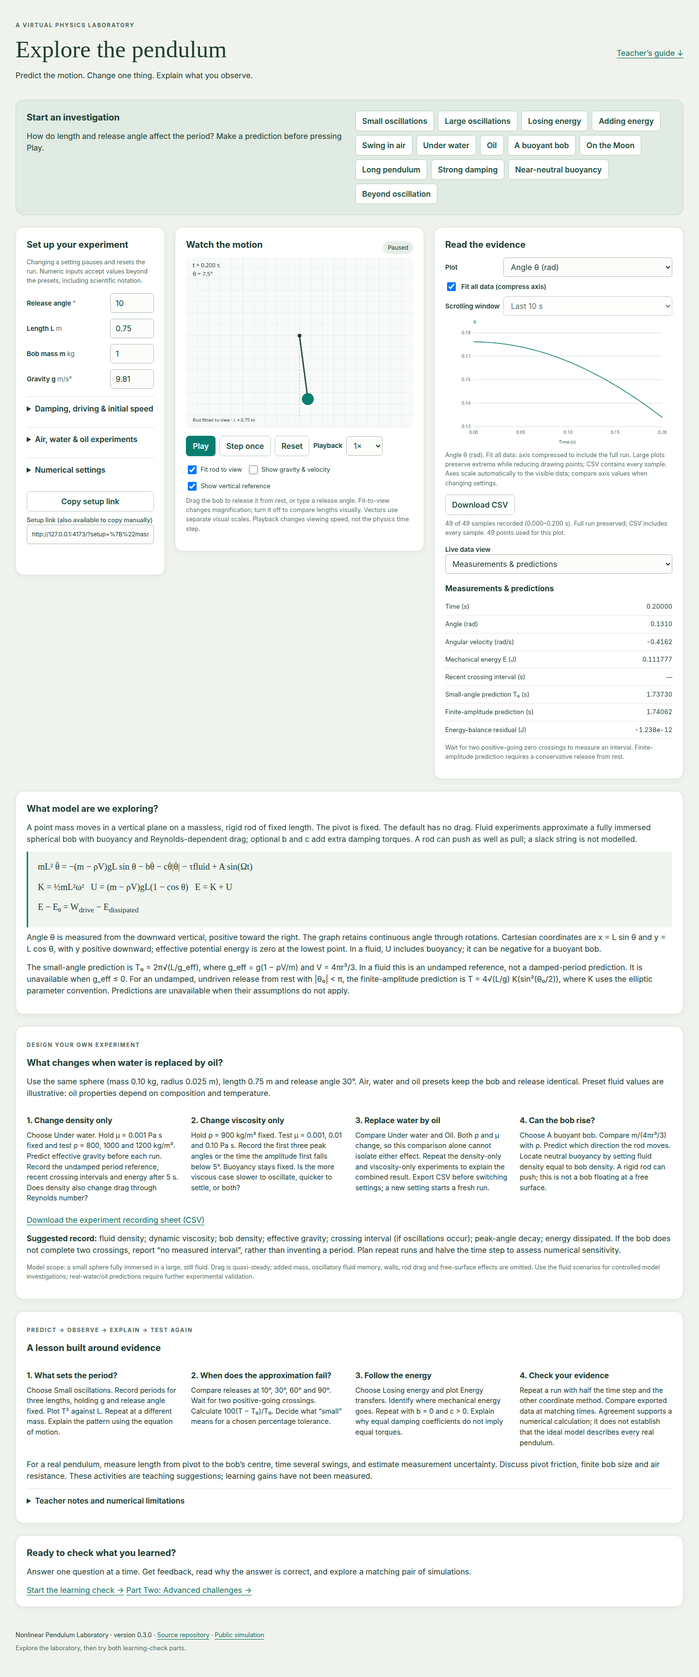
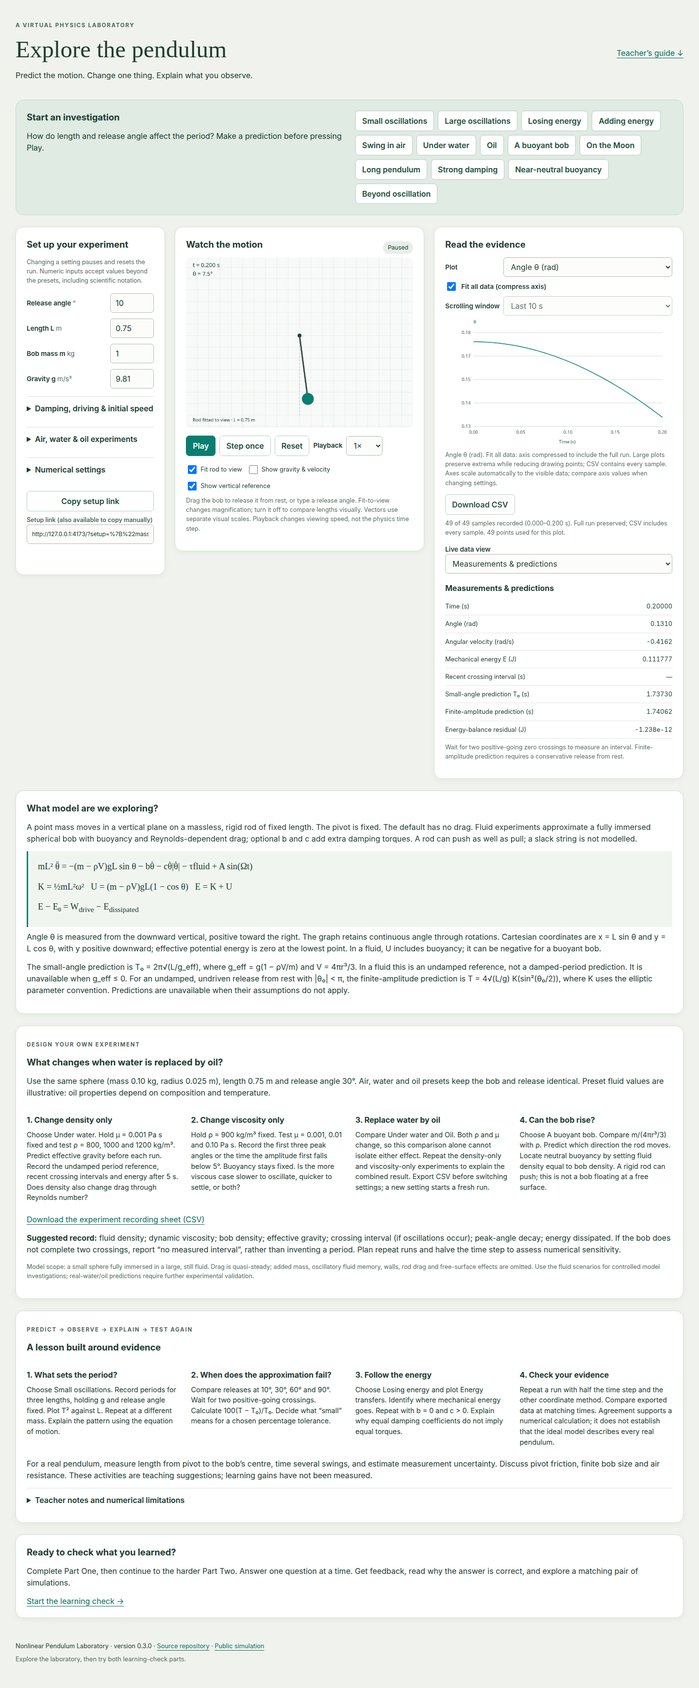
Present foundation and advanced questions as one sequential quiz

diff --git a/src/main.ts b/src/main.ts
@@ -310,7 +310,7 @@ app.innerHTML = `
 <section class="card model" id="model"><h2>What model are we exploring?</h2><p>A point mass moves in a vertical plane on a massless, rigid rod of fixed length. The pivot is fixed. The default has no drag. Fluid experiments approximate a fully immersed spherical bob with buoyancy and Reynolds-dependent drag; optional b and c add extra damping torques. A rod can push as well as pull; a slack string is not modelled.</p><div class="equations"><p>mL² θ̈ = −(m − ρV)gL sin θ − bθ̇ − cθ̇|θ̇| − τfluid + A sin(Ωt)</p><p>K = ½mL²ω² &nbsp; U = (m − ρV)gL(1 − cos θ) &nbsp; E = K + U</p><p>E − E₀ = W<sub>drive</sub> − E<sub>dissipated</sub></p></div><p>Angle θ is measured from the downward vertical, positive toward the right. The graph retains continuous angle through rotations. Cartesian coordinates are x = L sin θ and y = L cos θ, with y positive downward; effective potential energy is zero at the lowest point. In a fluid, U includes buoyancy; it can be negative for a buoyant bob.</p><p>The small-angle prediction is T₀ = 2π√(L/g_eff), where g_eff = g(1 − ρV/m) and V = 4πr³/3. In a fluid this is an undamped reference, not a damped-period prediction. It is unavailable when g_eff ≤ 0. For an undamped, undriven release from rest with |θ₀| &lt; π, the finite-amplitude prediction is T = 4√(L/g) K(sin²(θ₀/2)), where K uses the elliptic parameter convention. Predictions are unavailable when their assumptions do not apply.</p></section>
 <section class="card" id="fluid-experiments"><p class="eyebrow">Design your own experiment</p><h2>What changes when water is replaced by oil?</h2><p>Use the same sphere (mass 0.10 kg, radius 0.025 m), length 0.75 m and release angle 30°. Air, water and oil presets keep the bob and release identical. Preset fluid values are illustrative: oil properties depend on composition and temperature.</p><div class="lessons"><article><h3>1. Change density only</h3><p>Choose Under water. Hold μ = 0.001 Pa s fixed and test ρ = 800, 1000 and 1200 kg/m³. Predict effective gravity before each run. Record the undamped period reference, recent crossing intervals and energy after 5 s. Does density also change drag through Reynolds number?</p></article><article><h3>2. Change viscosity only</h3><p>Hold ρ = 900 kg/m³ fixed. Test μ = 0.001, 0.01 and 0.10 Pa s. Record the first three peak angles or the time the amplitude first falls below 5°. Buoyancy stays fixed. Is the more viscous case slower to oscillate, quicker to settle, or both?</p></article><article><h3>3. Replace water by oil</h3><p>Compare Under water and Oil. Both ρ and μ change, so this comparison alone cannot isolate either effect. Repeat the density-only and viscosity-only experiments to explain the combined result. Export CSV before switching settings; a new setting starts a fresh run.</p></article><article><h3>4. Can the bob rise?</h3><p>Choose A buoyant bob. Compare m/(4πr³/3) with ρ. Predict which direction the rod moves. Locate neutral buoyancy by setting fluid density equal to bob density. A rigid rod can push; this is not a bob floating at a free surface.</p></article></div><p><a href="./fluid-experiment-sheet.csv" download>Download the experiment recording sheet (CSV)</a></p><p><strong>Suggested record:</strong> fluid density; dynamic viscosity; bob density; effective gravity; crossing interval (if oscillations occur); peak-angle decay; energy dissipated. If the bob does not complete two crossings, report “no measured interval”, rather than inventing a period. Plan repeat runs and halve the time step to assess numerical sensitivity.</p><p class="hint">Model scope: a small sphere fully immersed in a large, still fluid. Drag is quasi-steady; added mass, oscillatory fluid memory, walls, rod drag and free-surface effects are omitted. Use the fluid scenarios for controlled model investigations; real-water/oil predictions require further experimental validation.</p></section>
 <section class="card" id="teacher-guide"><p class="eyebrow">Predict → observe → explain → test again</p><h2>A lesson built around evidence</h2><div class="lessons"><article><h3>1. What sets the period?</h3><p>Choose Small oscillations. Record periods for three lengths, holding g and release angle fixed. Plot T² against L. Repeat at a different mass. Explain the pattern using the equation of motion.</p></article><article><h3>2. When does the approximation fail?</h3><p>Compare releases at 10°, 30°, 60° and 90°. Wait for two positive-going crossings. Calculate 100(T − T₀)/T₀. Decide what “small” means for a chosen percentage tolerance.</p></article><article><h3>3. Follow the energy</h3><p>Choose Losing energy and plot Energy transfers. Identify where mechanical energy goes. Repeat with b = 0 and c &gt; 0. Explain why equal damping coefficients do not imply equal torques.</p></article><article><h3>4. Check your evidence</h3><p>Repeat a run with half the time step and the other coordinate method. Compare exported data at matching times. Agreement supports a numerical calculation; it does not establish that the ideal model describes every real pendulum.</p></article></div><p>For a real pendulum, measure length from pivot to the bob’s centre, time several swings, and estimate measurement uncertainty. Discuss pivot friction, finite bob size and air resistance. These activities are teaching suggestions; learning gains have not been measured.</p><details><summary>Teacher notes and numerical limitations</summary><p>Measured period averages up to three intervals between linearly interpolated, positive-going zero crossings. For damped or driven motion it is a recent crossing interval, not a claim of a natural or steady-state period. After a top crossing, oscillation-period reporting is disabled until reset. Near equilibrium, use the theoretical small-angle limit rather than measuring negligible oscillations.</p><p>The solver is not symplectic and exact energy conservation is not guaranteed. The energy-balance residual tests E − E₀ − Wdrive + Edissipated. Numerical validation covers finite runs and specified parameter sets, not every possible trajectory. Sensitive driven motion can diverge over long times. The full run is retained until Reset or a setting change. Large graphs use extrema-preserving summaries; CSV exports include every original sample. Memory use grows with run length.</p><p>This revised implementation was developed with AI assistance and numerical checks. The original development history and this correction cycle should be described separately in any publication.</p></details></section>
-<section class="card" style="margin-top:24px"><h2>Ready to check what you learned?</h2><p>Answer one question at a time. Get feedback, read why the answer is correct, and explore a matching pair of simulations.</p><a href="./quiz.html" class="guide-link">Start the learning check →</a> <a href="./quiz.html?part=2" class="guide-link">Part Two: Advanced challenges →</a></section></main><footer>Nonlinear Pendulum Laboratory · version ${ENGINE_VERSION} · <a href="https://github.com/sastriosks/2D-Nonlinear-Simple-Pendulum-Simulation">Source repository</a> · <a href="https://sastriosks.github.io/2D-Nonlinear-Simple-Pendulum-Simulation/">Public simulation</a><p>Explore the laboratory, then try both learning-check parts.</p></footer>`;
+<section class="card" style="margin-top:24px"><h2>Ready to check what you learned?</h2><p>Complete Part One, then continue to the harder Part Two. Answer one question at a time. Get feedback, read why the answer is correct, and explore a matching pair of simulations.</p><a href="./quiz.html" class="guide-link">Start the learning check →</a></section></main><footer>Nonlinear Pendulum Laboratory · version ${ENGINE_VERSION} · <a href="https://github.com/ishwrknt/2D-Nonlinear-Simple-Pendulum-Simulation">Source repository</a> · <a href="https://ishwrknt.github.io/2D-Nonlinear-Simple-Pendulum-Simulation/">Public simulation</a><p>Explore the laboratory, then try both learning-check parts.</p></footer>`;
 const el = <T extends HTMLElement = HTMLElement>(id: string) =>
   document.getElementById(id) as T;
 const engine = new PendulumEngine(params);

diff --git a/src/quiz.ts b/src/quiz.ts
@@ -4,10 +4,8 @@ import { PendulumEngine } from "./physics";
 import { effectiveGravity } from "./fluid";
 import { questions as foundationQuestions, quizBase } from "./quiz-questions";
 import { advancedQuestions } from "./quiz-advanced";
-const advanced = new URLSearchParams(location.search).get("part") === "2";
-const questions = advanced ? advancedQuestions : foundationQuestions;
-const partTitle = advanced ? "Part Two: Advanced challenges" : "Part One: Foundations";
-document.title = `${partTitle} · Pendulum learning check`;
+const questions = [...foundationQuestions, ...advancedQuestions];
+document.title = "Pendulum learning check · Parts One and Two";
 const app = document.querySelector<HTMLDivElement>("#quiz-app")!;
 const answers: (number | null)[] = questions.map(() => null);
 let index = 0,
@@ -20,7 +18,8 @@ const colors = ["#087e70", "#ad4b25"];
 const get = <T extends HTMLElement = HTMLElement>(id: string) =>
   document.getElementById(id) as T;
 function shell(content: string) {
-  app.innerHTML = `<header><div><p class="eyebrow">Predict · check · explore</p><h1>${partTitle}</h1><p>${questions.length} questions, one at a time. Answer, read the explanation, then test it in motion.</p></div><nav><a href="./">Back to laboratory</a> · <a href="./quiz.html${advanced ? "" : "?part=2"}">${advanced ? "Part One: Foundations" : "Part Two: Advanced challenges"}</a></nav></header><main class="quiz-main">${content}</main>`;
+  const partTitle = index < foundationQuestions.length ? "Part One: Foundations" : "Part Two: Advanced challenges";
+  app.innerHTML = `<header><div><p class="eyebrow">Predict · check · explore</p><h1>${partTitle}</h1><p>${questions.length} questions in order: foundations first, then advanced challenges. Answer, read the explanation, then test it in motion.</p></div><nav><a href="./">Back to laboratory</a></nav></header><main class="quiz-main">${content}</main>`;
 }
 function renderQuestion() {
   playing = false;
@@ -48,7 +47,7 @@ function showExplanation() {
   const q = questions[index],
     correct = answers[index] === q.correct;
   get("answer-feedback").innerHTML =
-    `<div class="feedback ${correct ? "correct" : "incorrect"}"><h2 id="feedback-title" tabindex="-1">${correct ? "Correct" : "Not quite — review the explanation"}</h2><p><strong>Your answer:</strong> ${q.options[answers[index]!]}</p><p><strong>Correct answer:</strong> ${q.options[q.correct]}</p><p>${q.explanation}</p></div><section aria-labelledby="demo-heading"><h2 id="demo-heading">See why: compare the two simulations</h2><p>${q.watch}</p><canvas id="quiz-canvas" width="900" height="570" aria-label="Two pendulum animations and their angle-versus-time traces; numerical evidence is shown below."></canvas><div class="transport"><button id="demo-play">Play comparison</button><button id="demo-reset">Replay from start</button></div><p class="hint">Both panels fit their rods to the same display size. Colours and numbered labels identify each case. Angle traces use a shared scale. The comparison stops at 12 simulated seconds.</p><div id="demo-values"></div><p class="hint">These are numerical model demonstrations. Fluid examples omit added mass, unsteady fluid effects, walls and free surfaces; they are not measured real-fluid results.</p></section><button id="next-question" class="primary">${index === questions.length - 1 ? "See my result" : "Next question"}</button>`;
+    `<div class="feedback ${correct ? "correct" : "incorrect"}"><h2 id="feedback-title" tabindex="-1">${correct ? "Correct" : "Not quite — review the explanation"}</h2><p><strong>Your answer:</strong> ${q.options[answers[index]!]}</p><p><strong>Correct answer:</strong> ${q.options[q.correct]}</p><p>${q.explanation}</p></div><section aria-labelledby="demo-heading"><h2 id="demo-heading">See why: compare the two simulations</h2><p>${q.watch}</p><canvas id="quiz-canvas" width="900" height="570" aria-label="Two pendulum animations and their angle-versus-time traces; numerical evidence is shown below."></canvas><div class="transport"><button id="demo-play">Play comparison</button><button id="demo-reset">Replay from start</button></div><p class="hint">Both panels fit their rods to the same display size. Colours and numbered labels identify each case. Angle traces use a shared scale. The comparison stops at 12 simulated seconds.</p><div id="demo-values"></div><p class="hint">These are numerical model demonstrations. Fluid examples omit added mass, unsteady fluid effects, walls and free surfaces; they are not measured real-fluid results.</p></section><button id="next-question" class="primary">${index === questions.length - 1 ? "See my result" : index === foundationQuestions.length - 1 ? "Continue to Part Two" : "Next question"}</button>`;
   startDemo();
   get("demo-play").addEventListener("click", () => {
     playing = !playing;
@@ -194,8 +193,10 @@ function drawDemo() {
 function showResult() {
   engines = [];
   const score = answers.filter((a, i) => a === questions[i].correct).length;
+  const foundationScore = answers.slice(0, foundationQuestions.length).filter((a, i) => a === foundationQuestions[i].correct).length;
+  const advancedScore = score - foundationScore;
   shell(
-    `<section class="card"><h2>Your result: ${score} / ${questions.length}</h2><p>${score === questions.length ? "All answers were correct. Try designing a new experiment in the laboratory." : "Use the topics below to guide your next experiments. You can restart the practice to check your understanding again."}</p><ol>${questions.map((q, i) => `<li>${q.topic}: <strong>${answers[i] === q.correct ? "Correct" : "Review"}</strong></li>`).join("")}</ol><p><a class="guide-link" href="./quiz.html${advanced ? "" : "?part=2"}">${advanced ? "Revisit Part One" : "Continue to Part Two: Advanced challenges →"}</a></p><button id="restart-quiz">Start again</button> <a href="./">Explore the laboratory</a></section>`,
+    `<section class="card"><h2>Your result: ${score} / ${questions.length}</h2><p>Part One: ${foundationScore} / ${foundationQuestions.length} · Part Two: ${advancedScore} / ${advancedQuestions.length}</p><p>${score === questions.length ? "All answers were correct. Try designing a new experiment in the laboratory." : "Use the topics below to guide your next experiments. You can restart the practice to check your understanding again."}</p><ol>${questions.map((q, i) => `<li>${q.topic}: <strong>${answers[i] === q.correct ? "Correct" : "Review"}</strong></li>`).join("")}</ol><button id="restart-quiz">Start again</button> <a href="./">Explore the laboratory</a></section>`,
   );
   get("restart-quiz").addEventListener("click", () => {
     answers.fill(null);

diff --git a/tests/quiz.spec.ts b/tests/quiz.spec.ts
@@ -1,14 +1,16 @@
 import {test,expect} from '@playwright/test';
-import {questions} from '../src/quiz-questions';
+import {questions as foundationQuestions} from '../src/quiz-questions';
+const questions = [...foundationQuestions, ...advancedQuestions];
 test('laboratory links to quiz; one answer at a time, feedback, simulations and final score',async({page})=>{
  await page.goto('/');await page.getByRole('link',{name:'Start the learning check →'}).click();await expect(page).toHaveURL(/quiz.html$/);await page.clock.install();
  for(let i=0;i<questions.length;i++){
+  await expect(page.locator('h1')).toHaveText(i < 8 ? 'Part One: Foundations' : 'Part Two: Advanced challenges');
   await expect(page.locator('legend')).toHaveText(questions[i].prompt);await expect(page.locator('#next-question')).toHaveCount(0);
   const choice=i===0?(questions[i].correct+1)%questions[i].options.length:questions[i].correct;
   await page.locator(`input[value="${choice}"]`).check();await page.getByRole('button',{name:'Check answer',exact:true}).click();await expect(page.locator('#feedback-title')).toContainText(i===0?'Not quite':'Correct');await expect(page.locator('#answer-feedback')).toContainText(questions[i].options[questions[i].correct]);await expect(page.locator('input[value="0"]')).toBeDisabled();
   await page.click('#demo-play');await page.clock.runFor(600);await expect(page.locator('#demo-values')).not.toContainText('Simulated time: 0.00 s');await page.click('#demo-reset');await expect(page.locator('#demo-values')).toContainText('Simulated time: 0.00 s');await page.click('#next-question');
  }
- await expect(page.getByRole('heading',{name:'Your result: 7 / 8'})).toBeVisible();await page.click('#restart-quiz');await expect(page.locator('legend')).toHaveText(questions[0].prompt);await expect(page.locator('#answer-feedback')).toBeEmpty();
+ await expect(page.getByRole('heading',{name:'Your result: 15 / 16'})).toBeVisible();await page.click('#restart-quiz');await expect(page.locator('legend')).toHaveText(questions[0].prompt);await expect(page.locator('#answer-feedback')).toBeEmpty();
 });
 test('quiz mobile layout, unanswered submission and replay after completion',async({page})=>{
  const errors:string[]=[];page.on('pageerror',e=>errors.push(e.message));await page.setViewportSize({width:390,height:844});await page.goto('/quiz.html');await page.clock.install();await page.getByRole('button',{name:'Check answer',exact:true}).click();await expect(page.locator('#feedback-title')).toHaveCount(0);
@@ -17,12 +19,19 @@ test('quiz mobile layout, unanswered submission and replay after completion',asy
 });
 
 import {advancedQuestions} from '../src/quiz-advanced';
-test('advanced part: direct entry, complete feedback flow, simulations, score and restart',async({page})=>{
+test('advanced part follows foundations, complete simulations, combined score and restart',async({page})=>{
  test.setTimeout(120000);
  const errors:string[]=[];page.on('pageerror',e=>errors.push(e.message));
- await page.goto('/');await page.getByRole('link',{name:'Part Two: Advanced challenges →',exact:true}).click();
- await expect(page).toHaveURL(/quiz.html\?part=2$/);await expect(page.locator('h1')).toHaveText('Part Two: Advanced challenges');
+ await page.goto('/quiz.html?part=2');
+ await expect(page.locator('h1')).toHaveText('Part One: Foundations');
  await page.setViewportSize({width:390,height:844});await page.clock.install();
+ for (const q of foundationQuestions) {
+  await page.locator(`input[value="${q.correct}"]`).check();
+  await page.getByRole('button',{name:'Check answer',exact:true}).click();
+  await page.click('#next-question');
+ }
+ await expect(page.locator('h1')).toHaveText('Part Two: Advanced challenges');
+ await expect(page.getByRole('heading',{name:/Your result/})).toHaveCount(0);
  for(const [i,q] of advancedQuestions.entries()){
   await expect(page.locator('legend')).toHaveText(q.prompt);
   await expect(page.locator('#next-question')).toHaveCount(0);
@@ -36,7 +45,8 @@ test('advanced part: direct entry, complete feedback flow, simulations, score an
   expect(await page.evaluate(()=>document.documentElement.scrollWidth<=innerWidth)).toBe(true);
   await page.click('#demo-reset');await expect(page.locator('#demo-values')).toContainText('Simulated time: 0.00 s');await page.click('#next-question');
  }
- await expect(page.getByRole('heading',{name:'Your result: 7 / 8'})).toBeVisible();
- await page.click('#restart-quiz');await expect(page.locator('legend')).toHaveText(advancedQuestions[0].prompt);
+ await expect(page.getByRole('heading',{name:'Your result: 15 / 16'})).toBeVisible();
+ await expect(page.locator('main')).toContainText('Part One: 8 / 8 · Part Two: 7 / 8');
+ await page.click('#restart-quiz');await expect(page.locator('legend')).toHaveText(foundationQuestions[0].prompt);
  await expect(page.locator('#answer-feedback')).toBeEmpty();expect(errors).toEqual([]);
 });

diff --git a/docs/learning-check.md b/docs/learning-check.md
@@ -7,8 +7,8 @@ Production build now includes index.html and quiz.html with relative asset paths
 
 Question content and answer keys are editable in src/quiz-questions.ts; presentation and demonstrations in src/quiz.ts. Answer keys are visible in delivered browser source, as appropriate for self-study. Teacher collection of student results is not implemented. Numerical demonstrations use the same documented model and limits as the laboratory. Do not interpret scores as evidence of learning gains without a separate educational study.
 
-## Part Two: advanced challenges
-Open `quiz.html?part=2`, either from the laboratory, the quiz navigation or the Part One result. Eight additional questions cover combined length/gravity scaling, mass-dependent damping, critical versus excessive damping, the rotation energy threshold, radius-dependent buoyancy stability, driven energy balance, nonlinear bottom speed and matched buoyancy with different drag. Each answer locks on submission and reveals feedback, a derivation, and two replayable simulations. Part Two has its own score and restart.
+## Part Two: advanced challenges (after Part One)
+Open `quiz.html` from the laboratory. Complete the eight Part One questions, then continue directly to Part Two without leaving the quiz. Eight additional questions cover combined length/gravity scaling, mass-dependent damping, critical versus excessive damping, the rotation energy threshold, radius-dependent buoyancy stability, driven energy balance, nonlinear bottom speed and matched buoyancy with different drag. Each answer locks on submission and reveals feedback, a derivation, and two replayable simulations. A single final result shows the combined score out of 16 and both part scores. Restart returns to Part One.
 
 The comparison now includes angular velocity, predicted conservative bottom speed, drive work and energy-balance residual. Pendulum panels accommodate motion above the pivot. Advanced content lives in `src/quiz-advanced.ts`. This remains self-study practice; scores are not stored or submitted.
 

diff --git a/README.md b/README.md
@@ -66,7 +66,7 @@ Checks: 16 Node tests, 10 Chromium tests and build passed. Five added preset/exp
 ## Student learning check
 Open quiz.html or use Start the learning check at the end of the laboratory. Eight questions provide one-at-a-time feedback, explanations and paired simulations, followed by a score. See docs/learning-check.md.
 
-## Part Two: advanced challenges
-Open `quiz.html?part=2`, either from the laboratory, the quiz navigation or the Part One result. Eight additional questions cover combined length/gravity scaling, mass-dependent damping, critical versus excessive damping, the rotation energy threshold, radius-dependent buoyancy stability, driven energy balance, nonlinear bottom speed and matched buoyancy with different drag. Each answer locks on submission and reveals feedback, a derivation, and two replayable simulations. Part Two has its own score and restart.
+## Part Two: advanced challenges (after Part One)
+Open `quiz.html` from the laboratory. Complete the eight Part One questions, then continue directly to Part Two without leaving the quiz. Eight additional questions cover combined length/gravity scaling, mass-dependent damping, critical versus excessive damping, the rotation energy threshold, radius-dependent buoyancy stability, driven energy balance, nonlinear bottom speed and matched buoyancy with different drag. Each answer locks on submission and reveals feedback, a derivation, and two replayable simulations. A single final result shows the combined score out of 16 and both part scores. Restart returns to Part One.
 
 The comparison now includes angular velocity, predicted conservative bottom speed, drive work and energy-balance residual. Pendulum panels accommodate motion above the pivot. Advanced content lives in `src/quiz-advanced.ts`. This remains self-study practice; scores are not stored or submitted.

diff --git a/CONTEXT.md b/CONTEXT.md
@@ -65,3 +65,8 @@ User requested a harder Part Two and explicitly authorized Git push and deployme
 
 Final Part Two verification: 18 Node physics/data tests passed; 13 browser tests passed using installed Google Chrome through PLAYWRIGHT_CHROMIUM_EXECUTABLE_PATH; TypeScript/Vite production build passed; 62 dry and 8 fluid independent reference cases passed. Advanced full-playback browser test has a 120-second budget because it renders all eight 12-second comparisons. Screenshot validation/quiz-part2-preview.png visually reviewed.
 Publishing blocker: gh API reports signed-in ishwrknt has push=false for sastriosks/2D-Nonlinear-Simple-Pendulum-Simulation. User has been asked whether to publish a fork under ishwrknt or obtain write access to the original. No push or deployment has occurred. Do not claim the original public site contains this update.
+
+## 2026-11-17 — Sequential quiz and GitHub fork
+User corrected the flow: Part One must be followed by Part Two in one quiz. quiz.html now presents all 16 questions in order; after question 8, Continue to Part Two retains answers; final results show combined and per-part scores; restart returns to Part One. Separate Part Two links removed. Old ?part=2 links also begin at Part One. User authorized publishing under their account. Created fork ishwrknt/2D-Nonlinear-Simple-Pendulum-Simulation and enabled Actions/Pages workflow deployment. Footer links point to this fork. Local sequential checks and deployment verification in progress.
+
+Sequential flow verified: npm test passed (18 physics/data tests, production build, 13 Chromium browser tests). Both parts run in sequence with score retention, no early result and restart at foundations. Publishing this checked revision to the ishwrknt fork.

diff --git a/HANDOVER.md b/HANDOVER.md
@@ -63,3 +63,8 @@ User requested a harder Part Two and explicitly authorized Git push and deployme
 
 Final Part Two verification: 18 Node physics/data tests passed; 13 browser tests passed using installed Google Chrome through PLAYWRIGHT_CHROMIUM_EXECUTABLE_PATH; TypeScript/Vite production build passed; 62 dry and 8 fluid independent reference cases passed. Advanced full-playback browser test has a 120-second budget because it renders all eight 12-second comparisons. Screenshot validation/quiz-part2-preview.png visually reviewed.
 Publishing blocker: gh API reports signed-in ishwrknt has push=false for sastriosks/2D-Nonlinear-Simple-Pendulum-Simulation. User has been asked whether to publish a fork under ishwrknt or obtain write access to the original. No push or deployment has occurred. Do not claim the original public site contains this update.
+
+## 2026-11-17 — Sequential quiz and GitHub fork
+User corrected the flow: Part One must be followed by Part Two in one quiz. quiz.html now presents all 16 questions in order; after question 8, Continue to Part Two retains answers; final results show combined and per-part scores; restart returns to Part One. Separate Part Two links removed. Old ?part=2 links also begin at Part One. User authorized publishing under their account. Created fork ishwrknt/2D-Nonlinear-Simple-Pendulum-Simulation and enabled Actions/Pages workflow deployment. Footer links point to this fork. Local sequential checks and deployment verification in progress.
+
+Sequential flow verified: npm test passed (18 physics/data tests, production build, 13 Chromium browser tests). Both parts run in sequence with score retention, no early result and restart at foundations. Publishing this checked revision to the ishwrknt fork.
